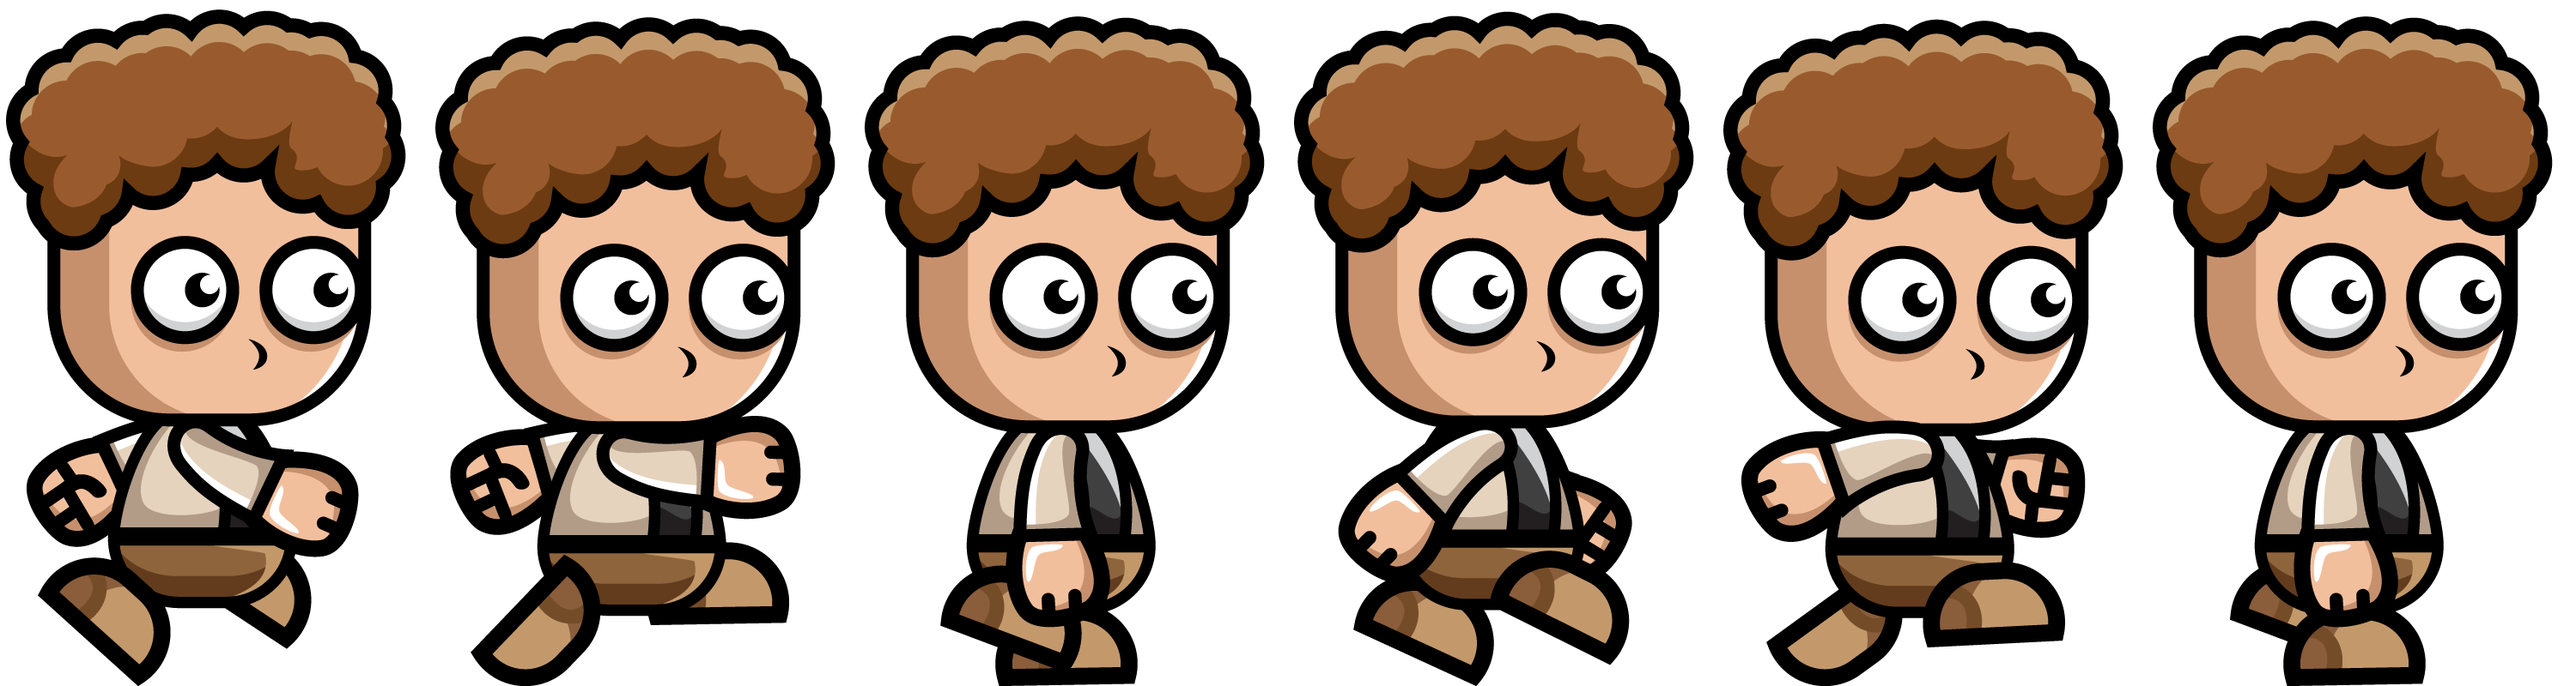
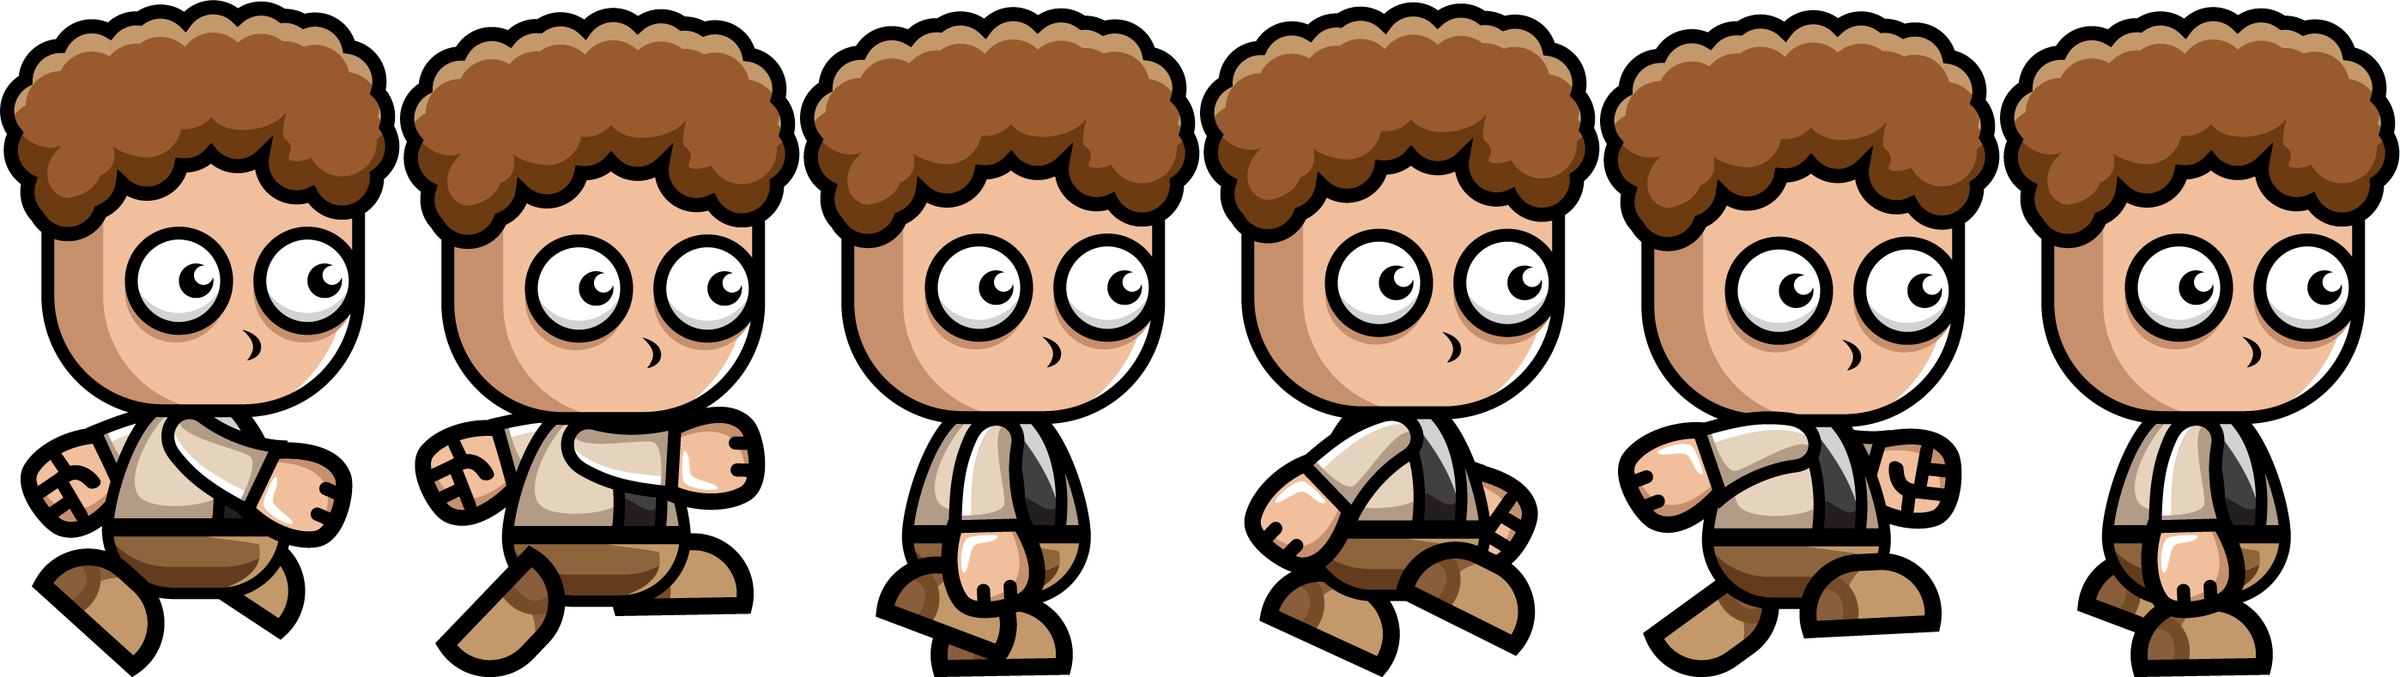
Obstacle collisions

Changed region(s): [[0.0, 0.0, 1.0, 1.0], [0.0311, 0.9125, 0.0622, 1.0], [0.3423, 0.5475, 0.3734, 0.5779]]

diff --git a/src/XMorse/ts/PlayState.ts b/src/XMorse/ts/PlayState.ts
@@ -27,6 +27,7 @@
 			this.background = this.game.add.tileSprite(0, 0, 800, 480, "swamp");
 			const scale = this.game.height / 400;
 			this.background.tileScale.set(scale, scale);
+			this.game.physics.arcade.enableBody(this.background);
 
 			this.player = new Player(this.game);
 			this.player.create();
@@ -34,19 +35,33 @@
 
 		update(): void
 		{
+			this.background.tilePosition.x -= 3;
+
 			if (this.obstacles.length < 1)
 			{
 				this.obstacles.push(new Obstacle(this.game));
 			}
 
-			this.background.tilePosition.x -= 3;
-
 			for (let o = 0; o < this.obstacles.length; ++o)
 			{
-				this.obstacles[o].update();
+				const obstacle = this.obstacles[o];
+				this.physics.arcade.collide(this.player.sprite, obstacle.sprite, this.hitObstacle, null, this);
+				obstacle.update();
+				if (obstacle.sprite.position.x < 0)
+				{
+					obstacle.sprite.kill();
+					this.obstacles.splice(o, 1);
+				}
 			}
 
 			this.player.update();
+
+		}
+
+		hitObstacle()
+		{
+			this.obstacles.splice(0, this.obstacles.length);
+			this.game.state.start("MainMenuState");
 		}
 	}
 }

diff --git a/src/XMorse/ts/Obstacle.ts b/src/XMorse/ts/Obstacle.ts
@@ -8,10 +8,10 @@
 		constructor(game: Phaser.Game)
 		{
 			this.game = game;
-			this.sprite = this.game.add.sprite(this.game.world.centerX / .75, this.game.world.centerY / .65, "sign");
+			this.sprite = this.game.add.sprite(this.game.world.centerX / .75, this.game.world.height - 120, "sign");
 			this.sprite.anchor.setTo(0.5, 0.5);
 			this.game.physics.enable(this.sprite, Phaser.Physics.ARCADE);
-			this.sprite.body.collideWorldBounds = true;
+			this.sprite.body.collideWorldBounds = false;
 			this.sprite.animations.add("spin", [0, 1, 2, 3], 12, true);
 			this.sprite.animations.play("spin");
 		}
@@ -19,7 +19,6 @@
 		update()
 		{
 			this.sprite.body.velocity.x = -150;
-			this.sprite.body.velocity.y = 2000;
 		}
 	}
 }

diff --git a/src/XMorse/ts/game.ts b/src/XMorse/ts/game.ts
@@ -34,10 +34,10 @@ namespace XMorse
 			load.image("desert", "assets/images/desert.png");
 
 			load.spritesheet("idle", "assets/images/player-idle.png", 499, 750);
-			load.spritesheet("run", "assets/images/player-run.png", 500, 800);
+			load.spritesheet("run", "assets/images/player-run.png", 466, 789);
 			load.spritesheet("jump", "assets/images/player-jump.png", 490, 845);
 			load.spritesheet("land", "assets/images/player-land.png", 559, 764);
-			load.spritesheet("sign", "assets/images/sign.png", 100, 100);
+			load.spritesheet("sign", "assets/images/sign.png", 60, 120);
 
 			load.audio("IntroMusic", ["assets/music/intro.mp3"]);
 		}
